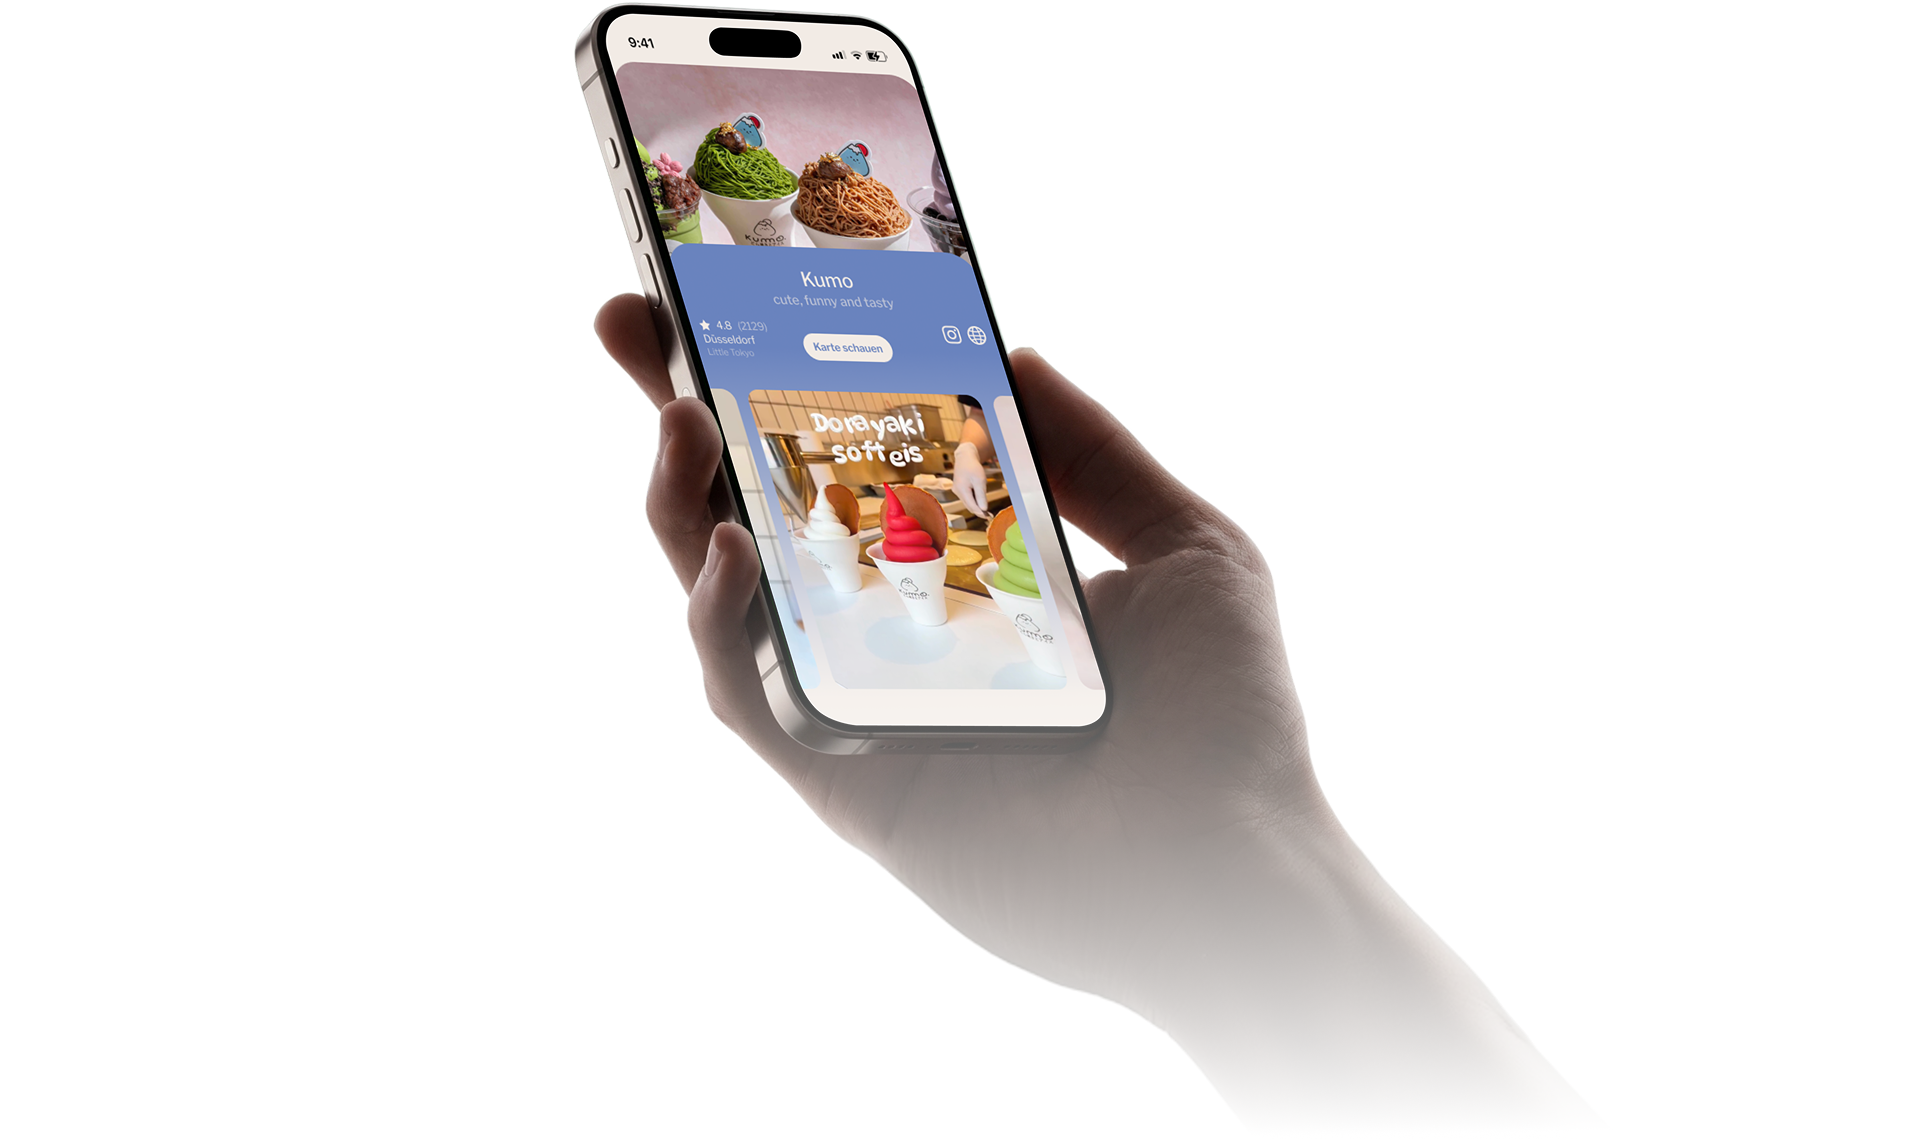
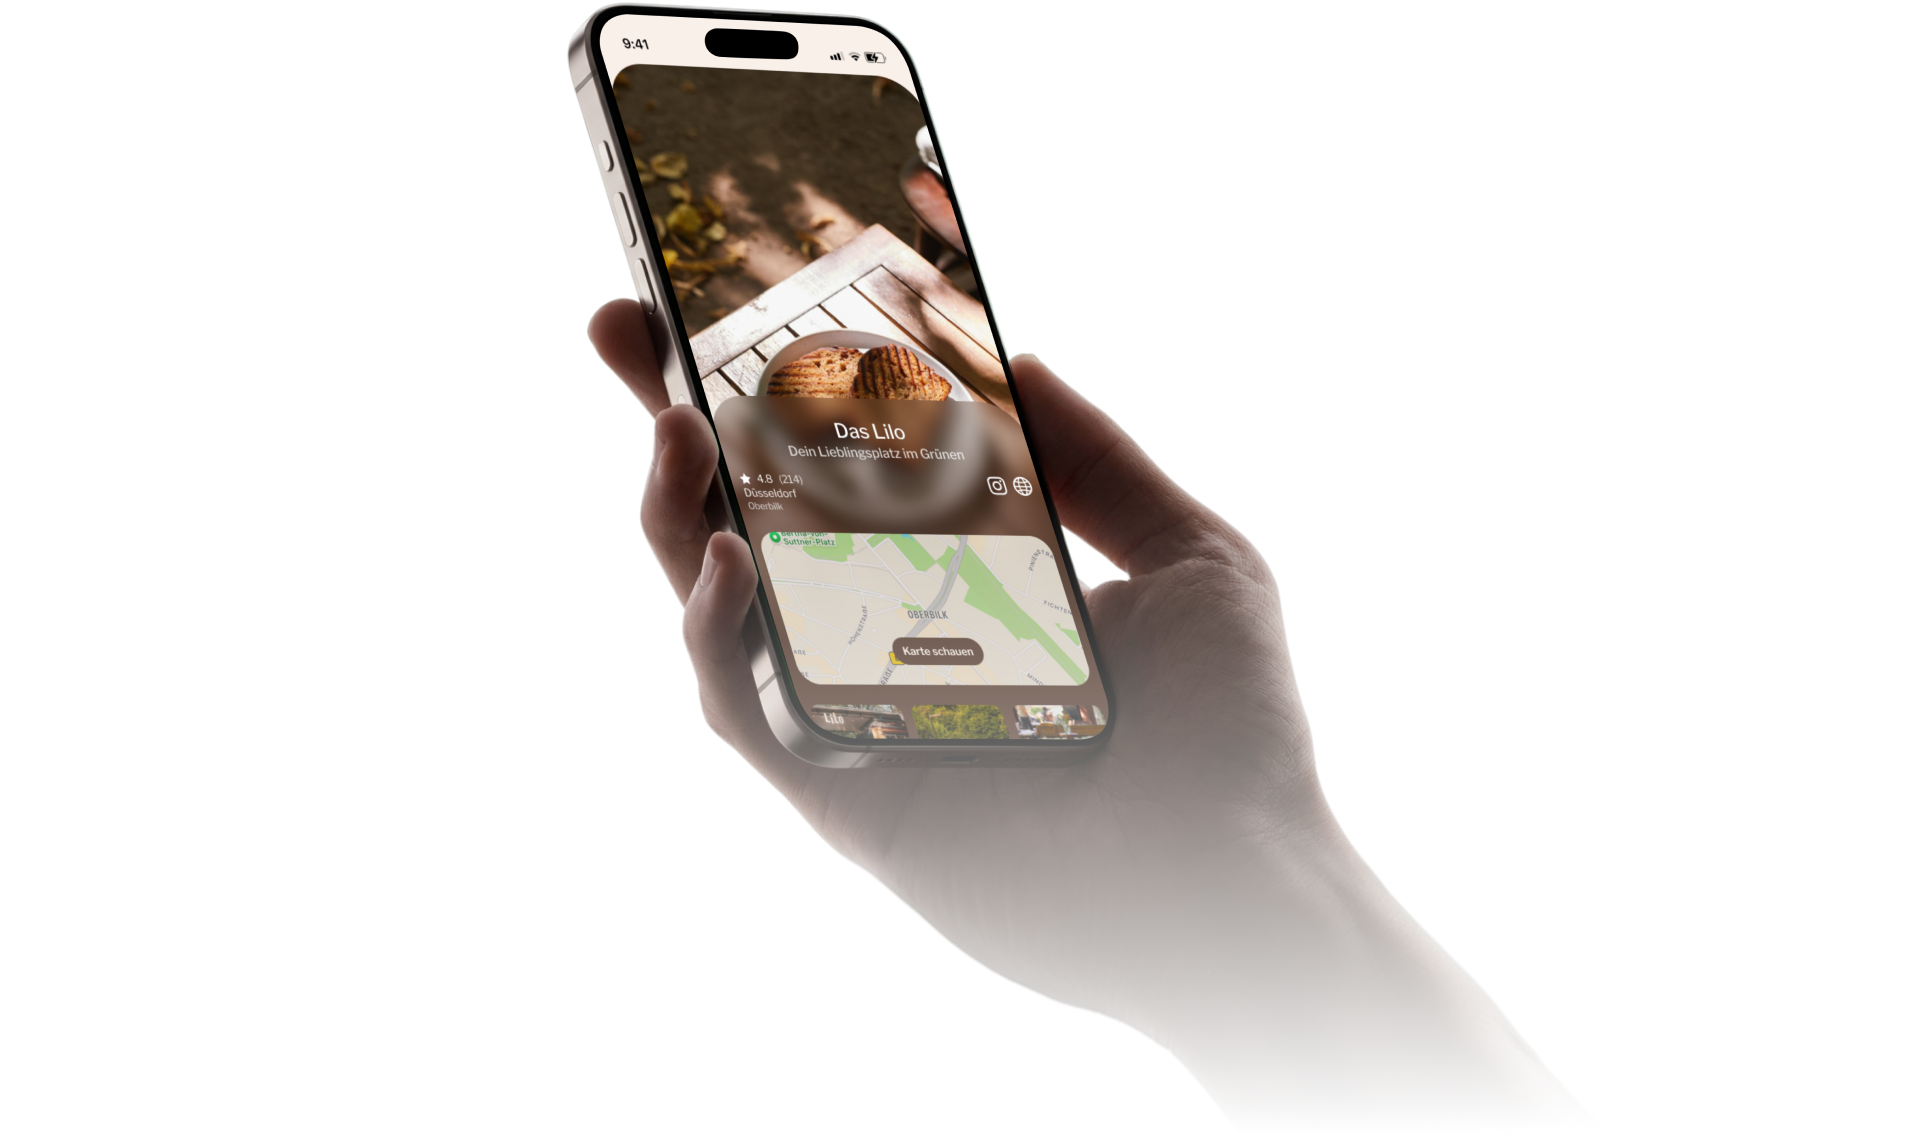
caflex-02

diff --git a/src/pages/Caflex/Caflex.tsx b/src/pages/Caflex/Caflex.tsx
@@ -1,6 +1,8 @@
 import './Caflex.css'
 import Nav from '../../components/Nav/Nav'
 import ProjectHeader from '../../components/ProjectHeader/ProjectHeader'
+import ProjectText from '../../components/ProjectText/ProjectText'
+import ProjectCode from '../../components/ProjectCode/ProjectCode'
 
 function Caflex() {
 
@@ -12,9 +14,11 @@ function Caflex() {
         logo='/portfolio/project/Caflex/logo.svg'
         img='/portfolio/project/Caflex/cover.jpg'
         description={<>
-        Placeholder
+        Wo gibt's den besten Kaffee in der Stadt?
         <br /><br />
-        Placeholder
+        Caflex ist eine App, die dir hilft, die besten Cafés in deiner Stadt zu entdecken. Von gemütlichen Eckcafés bis hin zu modernen Specialty-Coffee-Shops.
+        <br /><br />
+        Zu meinen Aufgaben gehörten die Gestaltung der visuellen Identität sowie die Konzeption und Entwicklung der App.
         </>}
         tools={[
             { key: 'icon-react', label: 'React'},
@@ -30,6 +34,127 @@ function Caflex() {
 
         <img className='img-project height no-mobile' src="/portfolio/project/Caflex/bilder/01.png" alt="bild" />
         <img className='img-project only-mobile' src="/portfolio/project/Caflex/bilder/02.png" alt="bild" />
+
+        <ProjectText
+          textTitel='Bunt. Vielfältig. Möglich'
+          textSubtitel='Design'
+          textParagraph={<>
+          Für das Design habe ich eine bunte und vielfältige Bildsprache entwickelt, die die zahlreichen Mix-Möglichkeiten widerspiegelt.
+          <br /><br />
+          Die lebendige Farbwelt betont die Pluralität der Zutaten und vermittelt visuell dieselbe Vielfalt und Freiheit, die auch die Marke selbst verkörpert.
+          </>}
+        />
+
+        <img className='img-project padding no-mobile' src="/portfolio/project/Caflex/bilder/06.png" alt="bild" />
+        <img className='img-project padding only-mobile' src="/portfolio/project/Caflex/bilder/07.png" alt="bild" />
+
+        <ProjectText
+          textTitel='Components'
+          textSubtitel='Funktionalität'
+        />
+
+        <div className="img-mobile">
+          <img src="/portfolio/project/Caflex/bilder/03.png" alt="bild" />
+        </div>
+
+        <ProjectText
+          textTheme='Stadt auswählen'
+          textParagraph={<>
+          Die Stadtauswahl wird über useState verwaltet, wobei die gewählte Stadt im localStorage persistiert wird. So bleibt sie auch nach einem Seitenreload erhalten.Ein zweiter Boolean-State steuert das Auswahlmenü, dessen Sichtbarkeit per dynamischer CSS-Klasse geregelt wird.
+          <br /><br />
+          Da das Projekt noch früh in der Entwicklung ist, sind aktuell nur Düsseldorf und Köln verfügbar. Die Café-Daten werden je nach aktiver Stadt aus einem typisierten Objekt geladen, die andere Stadt wird automatisch berechnet und separat angezeigt.
+          <br /><br />
+          Die zufälligen Empfehlungen werden mit useMemo nur neu berechnet, wenn sich die Stadt ändert.
+          </>}
+        />
+
+        <ProjectCode
+          lines={[
+            {
+              content: <><span className="code-blue">const</span> [<span className="code-blue">city</span>, <span className="code-blue">setCity</span>] = <span className="code-red">useState</span>(<span className="code-blue">() =&gt;</span> {'{'}</>
+            },
+            {
+              gap: 1,
+              content: <><span className="code-blue">return</span> <span className="code-blue">localStorage</span>.<span className="code-red">getItem</span>(<span className="code-red">"city"</span>) ?? <span className="code-red">"Düsseldorf"</span>;</>
+            },
+            {
+              content: <>{'});'}</>
+            },
+            {
+              content: <><span className="code-blue">const</span> <span className="code-blue">cafes</span> = <span className="code-blue">cafesTyped</span>[<span className="code-blue">city</span>];</>
+            },
+          ]}
+        />
+
+        <ProjectText
+          textTheme='Cafés sortieren'
+          textParagraph={<>
+          Die Café-Cards sind wiederverwendbare React-Komponenten wie “CafeCard”, “CafeCardLarge” und “CafeCardSmall”, die ihre Daten über Props empfangen. Per .map() wird das Array iteriert und die Eigenschaften jedes Cafés direkt an die Komponente übergeben.
+          <br /><br />
+          Diese Struktur macht das Projekt leicht skalierbar: Die Daten liegen aktuell in einem typisierten JSON-Objekt, könnten aber problemlos durch einen API-Call ersetzt werden, ohne die Komponentenstruktur anzupassen.
+          </>}
+        />
+
+        <ProjectCode
+          lines={[
+            {
+              content: <><span className="code-rosa">&lt;div </span><span className="code-purple">className</span>=<span className="code-red">"scroll CafesList"</span><span className="code-rosa">&gt;</span></>
+            },
+            {
+              gap: 1,
+              content: <>{'{'}cafes.<span className="code-red">map</span>((<span className="code-blue">cafe</span>) =&gt; (</>
+            },
+            {
+              gap: 2,
+              content: <><span className="code-rosa">&lt;CafeCard</span></>
+            },
+            {
+              gap: 3,
+              content: <><span className="code-purple">id</span>={'{'}cafe.<span className="code-blue">id</span>{'}'}</>
+            },
+            {
+              gap: 3,
+              content: <><span className="code-purple">img</span>={'{'}cafe.<span className="code-blue">foto</span>{'}'}</>
+            },
+            {
+              gap: 3,
+              content: <><span className="code-purple">name</span>={'{'}cafe.<span className="code-blue">name</span>{'}'}</>
+            },
+            {
+              gap: 3,
+              content: <><span className="code-purple">stadtteil</span>={'{'}cafe.<span className="code-blue">stadtteil</span>{'}'}</>
+            },
+            {
+              gap: 2,
+              content: <><span className="code-rosa">/&gt;</span></>
+            },
+            {
+              gap: 1,
+              content: <>))</>
+            },
+            {
+              content: <><span className="code-rosa">&lt;/div&gt;</span></>
+            },
+          ]}
+        />
+
+        <div className="img-mobile">
+          <img src="/portfolio/project/Caflex/bilder/04.png" alt="bild" />
+          <img src="/portfolio/project/Caflex/bilder/05.png" alt="bild" />
+        </div>
+
+        <ProjectText
+          textTheme='Einkaufswagen „My Mixx"'
+          textParagraph={<>
+          Der My-Mixx-Bildschirm zeigt in Echtzeit alle vom Nutzer hinzugefügten Produkte, geordnet nach Kategorie: Basis, Früchte, Süßungsmittel und Nüsse... und der Gesamtpreis<br />
+          Jedes Produkt wird mit Name und Einzelpreis angezeigt und kann direkt über den X-Button entfernt werden.
+          <br /><br />
+          Ein Klick auf den X-Button setzt den booleschen useState isAdded des entsprechenden Produkts auf false zurück. Dadurch verschwindet das Produkt aus der My-Mixx-Liste und der Button im Produktcard wechselt wieder von „Entfernen" zurück zu „Hinzufügen". Der Gesamtpreis wird dabei automatisch neu berechnet und sofort aktualisiert.
+          </>}
+        />
+
+        <img className='img-project no-mobile img-01' src="/portfolio/project/Caflex/bilder/08.png" alt="bild" />
+        <img className='img-project only-mobile' src="/portfolio/project/Caflex/bilder/09.png" alt="bild" />
     </div>
   )
 }

diff --git a/src/pages/Startseite/Startseite.tsx b/src/pages/Startseite/Startseite.tsx
@@ -83,6 +83,10 @@ function Startseite() {
                     img='/portfolio/project/MyMixx/card.jpg'
                 />
 
+                <ProjectCard
+                    name='Caflex'
+                    img='/portfolio/project/Caflex/card.jpg'
+                />
 
                 <ProjectCard
                     name='Essencial'
@@ -92,11 +96,6 @@ function Startseite() {
                 <ProjectCard
                     name='Dabei'
                     img='/portfolio/project/Dabei/card.jpg'
-                />
-
-                <ProjectCard
-                    name='Caflex'
-                    img='/portfolio/project/Caflex/card.jpg'
                 />
 
                 <ProjectCard

diff --git a/src/pages/Caflex/Caflex.css b/src/pages/Caflex/Caflex.css
@@ -1,0 +1,5 @@
+.Caflex{
+    & .img-01{
+        width: 65%;
+    }
+}
